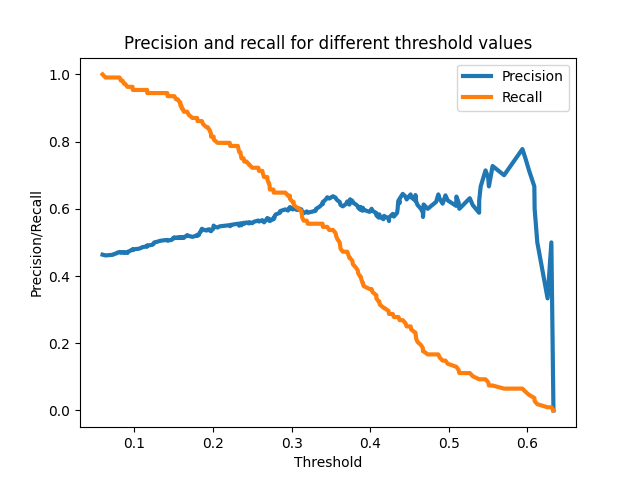
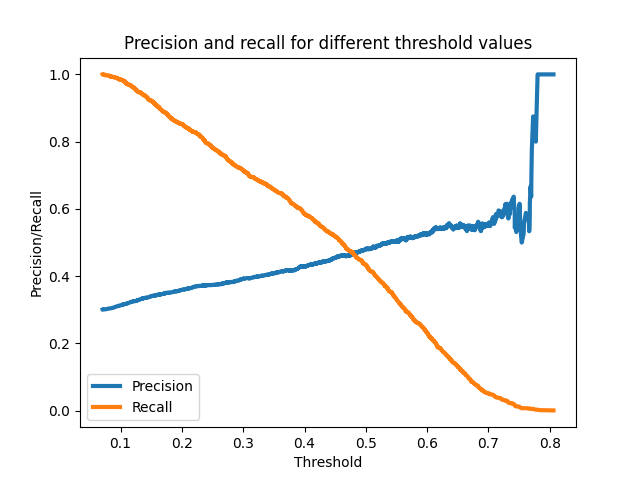
Rewritten many graphs to plotly

diff --git a/dashboard_st.py b/dashboard_st.py
@@ -10,11 +10,13 @@ example:
 """
 
 # import packages
+import pandas as pd
 from dateutil.relativedelta import relativedelta, FR
 import os, sys, platform
 import pickle
 import json
 import streamlit as st
+import hashlib
 from datetime import date, timedelta
 
 from option_trading_nonprod.aws import *
@@ -45,15 +47,21 @@ def load_data():
     df = batch_enrich_df(df)
     print('Shape of batch enriched data: {}'.format(df.shape))
 
+    df['reachedStrikePrice'] = np.where(df['maxPrice'] >= df['strikePrice'], 1, 0)
+
     return df
 
-
-# select model to use
-modelname = 'DEV_c_GB64_v1x4'
 
 # import data
 # load in data from s3
 df_all = load_data()
+
+# password implementation
+password = st.sidebar.text_input('Type in password')
+if os.environ['PASSWORD'] == password:
+    st.sidebar.write('Password is correct')
+else:
+    st.sidebar.write('Password is wrong')
 
 # Set title for sidebar
 st.sidebar.markdown('## Filtering options')
@@ -87,10 +95,11 @@ print('Shape of filtered data: {}'.format(df.shape))
 ########################
 # list available models
 models = os.listdir(os.getcwd() + '/trained_models')
-available_models = [i for i in models if i.startswith('PROD')]
+available_models = [i for i in models if (('64' in i) & ('DEV' in i))]
 
 # allow to choose model
-# modelname = st.sidebar.selectbox('Select model:', available_models)
+modelname = st.sidebar.selectbox('Select model:', available_models, index=available_models.index('DEV_c_GB64_v1x4.sav'))
+modelname = modelname.split('.')[0]
 
 ########################
 # Import model and score
@@ -103,11 +112,12 @@ prob = model.predict_proba(df[features])[:, 1]
 print('Loaded model and scored options')
 
 ####### Adding columns and variables #############
-# Make high level summary
-# Add target variable
-df['reachedStrikePrice'] = np.where(df['maxPrice'] >= df['strikePrice'], 1, 0)
 # Add prediction variable
 df['prob'] = prob
+
+# set threshold
+threshold = 0.5
+df['pred'] = np.where(df['prob'] > 0.5,1,0)
 
 df = simpleEnriching(df)
 
@@ -129,15 +139,6 @@ biggest_decrease_df = df.sort_values('maxProfitability', ascending=True)[
     subset=['baseSymbol']).head(5)
 biggest_decrease_df.reset_index(drop=True, inplace=True)
 
-# basic performance
-# accuracy (split per days to expiration)
-# accuracy (split per strike price increase)
-# brier score
-brier_score = brier_score_loss(df['reachedStrikePrice'], df['prob'])
-st.write('Brier score:', brier_score)
-
-# Simulating trading strategies
-print('Simulating simple trading strategies')
 
 # High probability
 roi_highprob, cost_highprob, revenue_highprob, profit_highprob = simpleTradingStrategy(df, actualCol='reachStrikePrice',
@@ -149,21 +150,35 @@ roi_highprof, cost_highprof, revenue_highprof, profit_highprof = simpleTradingSt
                                                                                        filterset=hprof_config,
                                                                                        plot=False)
 
-####################
-# PLOTS GENERATION #
-####################
-
-## pre plot variable and dftransformations
-# Subset total df into ones reaching strike and those not
-ReachedStrike = df[df['reachedStrikePrice'] == 1]
-notReachedStrike = df[df['reachedStrikePrice'] == 0]
-
 # Filter on options appearing in high probability, profitability or in neither of the two
 high_prob_df = dfFilterOnGivenSetOptions(df, hprob_config)
 high_prof_df = dfFilterOnGivenSetOptions(df, hprof_config)
 
 # Get days to strike price as a share of possible options reaching it
 df_days2strike = getDaysToStrikeAsShare(df)
+
+############################
+# Start dashboard creation #
+############################
+
+st.markdown('# Option trading model summary')
+
+# Showing some model info
+# model_details_df = pd.DataFrame({'Key':['model name', 'nr features', 'train size', 'calibration size']
+#                                  , 'Value':[modelname, len(model.feature_names), model.train_data_shape[0]
+#         , model.calibration_data_shape[0]]})
+# st.table(model_details_df)
+
+# top 10 features of model
+model_feature_importance = pd.DataFrame({'Feature':model.feature_names, 'Importance':model.feature_importances_}).sort_values('Importance', ascending=False).reset_index(drop=True)
+st.table(model_feature_importance.head(10))
+
+brier_score = brier_score_loss(df['reachedStrikePrice'], df['prob'])
+st.write('Brier score:', brier_score)
+
+####################
+# PLOTS GENERATION #
+####################
 
 print('Start creating plots')
 
@@ -184,10 +199,13 @@ st.plotly_chart(fig)
 
 ##### Model performance
 # calibration curve
-fig = plotCalibrationCurve(df['reachedStrikePrice'], df['prob'], title='', bins=10, returnfig=True, savefig=False)
-st.pyplot(fig)
+fig = plotCalibrationCurvePlotly(df['reachedStrikePrice'], df['prob'], title='', bins=10, returnfig=True, savefig=False)
+st.plotly_chart(fig)
 
 ##### Profitability
+# Biggest increases
+st.table(biggest_increase_df)
+
 # Plot on expected profit when selling on strike (if reached)
 fig = ExpvsActualProfitabilityScatter(df, high_prob_df, high_prof_df, actualCol='profitPerc', returnfig=True, savefig=False)
 st.pyplot(fig)
@@ -198,18 +216,20 @@ st.pyplot(fig)
 
 
 # # precision threshold plot
-# plotThresholdMetrics(df['prob'], df['reachedStrikePrice'], savefig=True,
-#                      saveFileName='scheduled_jobs/summary_content/pr-threshold.png')
-#
-# print('Created and saved precision vs threshold plot')
-#
+fig = plotThresholdMetricsPlotly(df['prob'], df['reachedStrikePrice'], returnfig=True, savefig=False,
+                     saveFileName='scheduled_jobs/summary_content/pr-threshold.png')
+st.plotly_chart(fig)
+
 # # AUC and similar
-# auc_roc = plotCurveAUC(df['prob'], df['reachedStrikePrice'], title='', type='roc', savefig=True,
-#                        saveFileName='scheduled_jobs/summary_content/roc.png')
-#
-# print('Created and saved ROC plot')
-#
-# auc_pr = plotCurveAUC(df['prob'], df['reachedStrikePrice'], title='', type='pr', savefig=True,
-#                       saveFileName='scheduled_jobs/summary_content/pr.png')
-#
-# print('Created and saved Precision Recall plot')
+fig, auc_roc = plotCurveAUCPlotly(df['prob'], df['reachedStrikePrice'], title='', type='roc', returnfig=True, savefig=False,
+                       saveFileName='scheduled_jobs/summary_content/roc.png')
+
+
+st.plotly_chart(fig)
+st.write(f'ROC auc of: {auc_roc}')
+
+fig, auc_pr = plotCurveAUCPlotly(df['prob'], df['reachedStrikePrice'], title='', type='pr', returnfig=True, savefig=False,
+                      saveFileName='scheduled_jobs/summary_content/pr.png')
+
+st.plotly_chart(fig)
+st.write(f'ROC auc of: {auc_pr}')

diff --git a/option_trading_nonprod/validation/classification.py b/option_trading_nonprod/validation/classification.py
@@ -1,4 +1,5 @@
 import matplotlib.pyplot as plt
+import plotly.express as px
 import numpy as np
 from sklearn import metrics 
 import itertools
@@ -51,6 +52,70 @@ def plotCurveAUC(probs, actual, title, type='roc', savefig=False, saveFileName='
         plt.savefig(saveFileName)
     return(auc)
 
+
+def plotCurveAUCPlotly(prob, actual, title, type='roc', returnfig=True, savefig=False, saveFileName='test.png'):
+    """
+    :param probs: float models predicted probability
+    :param actual: int 1 or 0 for the actual outcome
+    :param title: str title of the plot
+    :param type: str either ROC or PR
+    :param savefig: boolean if plot should be saved
+    :param saveFileName: str where to save the plot to
+    :return:
+    """
+    type = type.lower()
+    if type == 'roc':
+        xVar, yVar, thresholds = metrics.roc_curve(actual, prob)
+        title = 'ROC curve - {}'.format(title)
+        xlabel = 'False Positive Rate'
+        ylabel = 'True Positive Rate (Recall)'
+        diagCor1 = [0, 1]
+        diagCor2 = [0, 1]
+
+    elif ('recall' in type and 'precision' in type) or type == 'pr':
+        yVar, xVar, thresholds = metrics.precision_recall_curve(actual, prob)
+        title = 'Precision-Recall curve - {}'.format(title)
+        xlabel = 'True Positive Rate (Recall)'
+        ylabel = 'Precision'
+        diagCor1 = [0, 0]
+        diagCor2 = [0, 0]
+
+        # adding 0 to start of thresholds to make length equal
+        thresholds = np.insert(thresholds, 0, 0.0)
+
+    # Calculate area under curve (AUC)
+    auc = metrics.auc(xVar, yVar)
+
+    # make df for simpler future use
+    df_plot = pd.DataFrame({'xVar':xVar, 'yVar':yVar, 'threshold':thresholds})
+
+    # Plot curve
+    fig = px.line(df_plot, x='xVar', y='yVar', title=title, labels={'xVar':xlabel, 'yVar':ylabel}
+                  , hover_data={'xVar':':.2f','yVar':':.2f','threshold':':.2f'})
+
+    # set axis range to 0 - 1
+    fig.update_layout(xaxis_range=[0,1], yaxis_range=[0,1], xaxis_title=xlabel, yaxis_title=ylabel)
+
+    # Add diagonal reference line
+    fig.add_shape(type="line",
+                  xref="paper", yref="paper",
+                  x0=diagCor1[0], x1=diagCor1[1], y0=diagCor2[0], y1=diagCor2[1],
+                  line=dict(
+                      color="black",
+                      width=2,
+                      dash="dot",
+                  )
+    )
+
+    if savefig:
+        fig.write_image(saveFileName)
+        print(f'Created and saved {type} plot as {saveFileName}')
+
+    if returnfig:
+        return fig, auc
+
+    return auc
+
 def plotThresholdMetrics(pred, actual, savefig=False, saveFileName='pr-threshold.png', show_plot=True):
     precision, recall, th = metrics.precision_recall_curve(actual, pred)
     plt.figure()
@@ -65,9 +130,27 @@ def plotThresholdMetrics(pred, actual, savefig=False, saveFileName='pr-threshold
     if savefig:
         plt.savefig(saveFileName)
 
-def plotMetricOverTime(df, savefig=False, saveFileName='prOverTime.png', show_plot=True):
+def plotThresholdMetricsPlotly(prob, actual, returnfig=True, savefig=False, saveFileName='pr-threshold.png'):
+    precision, recall, th = metrics.precision_recall_curve(actual, prob)
 
-    metric_df = df[['date','actual','pred']].copy()
+    # make df for easier future use
+    df_pr = pd.DataFrame({'threshold':th ,'precision':precision[:-1],'recall':recall[:-1]})
+    fig = px.line(df_pr, x='threshold', y=['precision', 'recall'], title='Precision and recall for different threshold values')
+
+    # set axis range to 0 - 1
+    fig.update_layout(xaxis_range=[0,1], yaxis_range=[-0.05,1.05], xaxis_title='Threshold', yaxis_title='Precision/Recall')
+
+    if savefig:
+        fig.write_image(saveFileName)
+        print(f'Created and threshold precision recall plot as {saveFileName}')
+    if returnfig:
+        return fig
+
+def plotMetricOverTime(df, savefig=False, saveFileName='prOverTime.png', show_plot=True):
+    # TODO adjust this and add it to the dashboard
+    df_ = df.copy()
+    df_.rename(columns={'expirationDate':'date','reachedStrikePrice':'actual'}, inplace=True)
+    metric_df = df_[['date','actual','pred']].copy()
 
     # add tp, fp, tn and fn
     metric_df['TP'] = np.where((metric_df['pred'] == 1) & (metric_df['actual'] == 1),1,0)

diff --git a/option_trading_nonprod/validation/calibration.py b/option_trading_nonprod/validation/calibration.py
@@ -3,13 +3,14 @@
 # License: BSD Style.
 
 import matplotlib.pyplot as plt
-
+import pandas as pd
+import plotly.express as px
 from sklearn.linear_model import LogisticRegression
 from sklearn.metrics import (brier_score_loss, precision_score, recall_score,
                              f1_score)
 from sklearn.calibration import CalibratedClassifierCV, calibration_curve
 
-def plotCalibrationCurve(actuals, probs, title, bins=10, returnfig=False, savefig=False, saveFileName='test.png', show_plot=True):
+def plotCalibrationCurve(actuals, probs, title, bins=10, returnfig=False, savefig=False, saveFileName='test.png', show_plot=False):
     """
     Plot the calibration curve for a set of true and predicted values
 
@@ -43,6 +44,48 @@ def plotCalibrationCurve(actuals, probs, title, bins=10, returnfig=False, savefi
         plt.savefig(saveFileName)
     if returnfig:
         return plt
+
+def plotCalibrationCurvePlotly(actuals, probs, title, bins=10, returnfig=False, savefig=False, saveFileName='test.png'):
+    """
+    Plot the calibration curve for a set of true and predicted values
+
+    :param actuals: true target value
+    :param probs: predicted probability of target
+    :param bins: how many bins to divide data in for plotting
+    :param savefig: boolean if plot should be saved
+    :param saveFileName: str path to which to save the plot
+    :return: calibration plot
+    """
+    # summaries actuals and predicted probs to (bins) number of points
+    fraction_of_positives, mean_predicted_value = \
+        calibration_curve(actuals, probs, n_bins=bins)
+
+    # Create scatter plot
+    fig = px.scatter(x=fraction_of_positives, y=mean_predicted_value, title='Calibration plot (reliability curve)')
+
+    # Make trace be line plus dots
+    fig.data[0].update(mode='markers+lines')
+
+    # set axis range to 0 - 1
+    fig.update_layout(xaxis_range=[0,1], yaxis_range=[0,1], xaxis_title='Predicted probability', yaxis_title='Fraction of positives')
+
+    # Add diagonal reference line
+    fig.add_shape(type="line",
+                  xref="paper", yref="paper",
+                  x0=0, x1=1, y0=0, y1=1,
+                  line=dict(
+                      color="black",
+                      width=2,
+                      dash="dot",
+                  )
+    )
+
+    if savefig:
+        fig.write_image(saveFileName)
+        print(f'Created and saved calibration plot as {saveFileName}')
+
+    if returnfig:
+        return fig
 
 def plot_calibration_curve_mult(est, X_train, y_train, X_test, y_test, name, fig_index):
     """Plot calibration curve for est w/o and with calibration. """

diff --git a/option_trading_nonprod/other/specific_plots.py b/option_trading_nonprod/other/specific_plots.py
@@ -36,6 +36,9 @@ def PredictionVsStrikeIncreasePlotly(df, returnfig=False, savefig=False, saveFil
 										  hovertemplate=t.hovertemplate.replace(t.name, newnames[t.name])
 										  )
 					   )
+	if savefig:
+		fig.write_image(saveFileName)
+		print(f'Created and saved prediction vs strike increase scatter as {saveFileName}')
 
 	if returnfig:
 		return fig
@@ -120,7 +123,6 @@ def GroupsPerformanceComparisonBarPlotly(df, high_prob_df, high_prof_df, returnf
 	df_concat = pd.concat([all_binPercentage,hprob_binPercentage,hprof_binPercentage], ignore_index=True)
 	# update name made ugly due to grouping
 	df_concat.rename(columns={'baseSymbol':'share'}, inplace=True)
-	# order according to how it should be displayed
 	# cast reachedStrikePrice to string for coloring purposes
 	df_concat['reachedStrikePrice'] = df_concat['reachedStrikePrice'].astype(str)
 
@@ -130,6 +132,10 @@ def GroupsPerformanceComparisonBarPlotly(df, high_prob_df, high_prof_df, returnf
 				 category_orders={'reachedStrikePrice':['1','0']}, facet_col="group")
 
 	# fig.show(renderer='browser')
+
+	if savefig:
+		fig.write_image(saveFileName)
+		print(f'Created and saved group comparison bar plot as {saveFileName}')
 
 	if returnfig:
 		return fig
